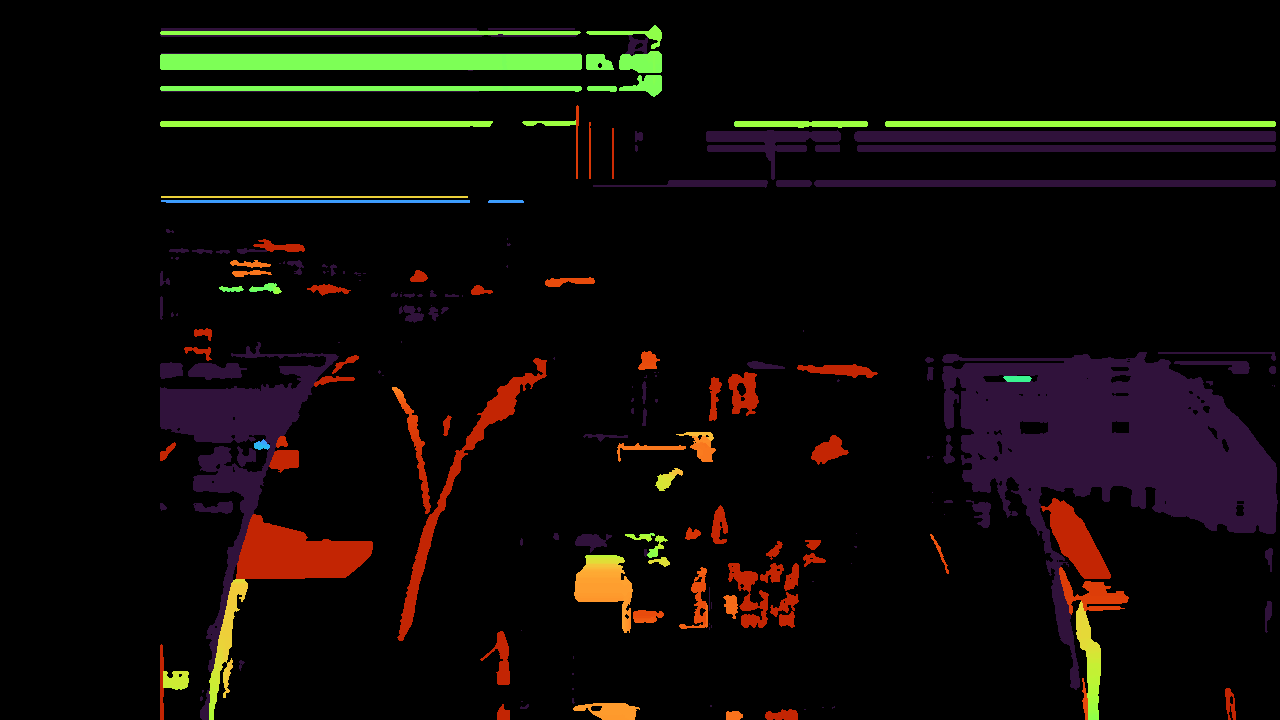
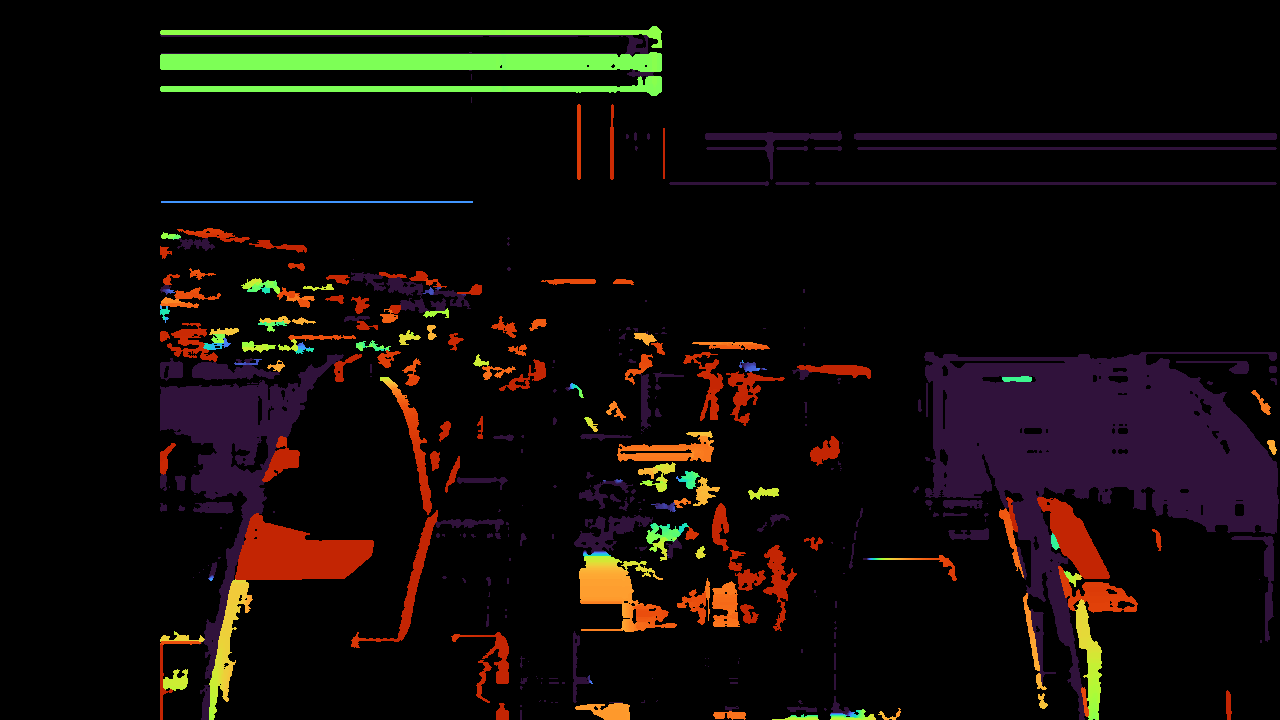
Persistent gritty regolith texture (world-anchored speckle + per-state micro-relief)
The ground rendered as a blurry interpolated slab (Apollo-14 surface ref shows
gritty, micro-shadowed regolith) — and gave passive stereo nothing to match.
Fix (terrain.gdshader + terrain_farfield.gdshader, both shaders):
- NEW fine ALBEDO speckle: world-anchored (field_uv->metres) high-frequency
  brightness grit at the granule scale, so the ground reads gritty AND both stereo
  cameras see identical texture at a world point (stereo-consistent, sun-angle
  stable). Single fine layer — macro structure stays the physics heightmap.
- Micro-shadow grain now PER-STATE (state_grain_factor) instead of disturbance-
  gated: VIRGIN full grit, TREAD turned WAY down (wheel compaction packs the fines
  smooth -> the rut reads polished, spec §6), EXCAVATED/SPOIL coarse, BERM smoother.
- depth_map.py SGBM retuned for low-contrast regolith (block 5, uniqueness 5):
  crater-interior coverage 10->24%, boulder field ->16%. Honest finding stands —
  passive stereo on uniform regolith is fundamentally sparse (the limiter is the
  narrow 0.1 m baseline + sky fraction + textureless rover self-view, not surface
  smoothness); the grit is decisively a LOOK win + gives what texture there is.

NOTE: this changes every lit terrain render, so the ARTIFACTS.md reference stills
(refreshed in 2c39a8e) are superseded again — deferring that re-refresh until the
look settles (active look iteration), per prior practice.

diff --git a/scripts/ros2_bridge/depth_map.py b/scripts/ros2_bridge/depth_map.py
@@ -35,13 +35,17 @@ def main() -> None:
         raise SystemExit("could not read front_left.png / front_right.png")
 
     # SGBM tuned for ~1-6 m at 0.1 m baseline, 1280-wide (disparity ~40 px @ 2.3 m, ~90 px @ 1 m).
+    # Tuned for low-contrast, low-texture lunar regolith: small block (fine grit is ~6 px at a
+    # few m, so big windows wash it out), permissive uniqueness (the speckle contrast is modest),
+    # generous speckle filter to drop isolated mismatches. Passive stereo on uniform regolith is
+    # inherently sparse; these recover what's recoverable without inventing matches.
     num_disp = 160  # multiple of 16
-    block = 7
+    block = 5
     sgbm = cv2.StereoSGBM_create(
         minDisparity=0, numDisparities=num_disp, blockSize=block,
         P1=8 * block * block, P2=32 * block * block,
-        disp12MaxDiff=1, uniquenessRatio=10, speckleWindowSize=100, speckleRange=2,
-        mode=cv2.STEREO_SGBM_MODE_SGBM_3WAY,
+        disp12MaxDiff=2, uniquenessRatio=5, speckleWindowSize=80, speckleRange=4,
+        preFilterCap=31, mode=cv2.STEREO_SGBM_MODE_SGBM_3WAY,
     )
     disp = sgbm.compute(left, right).astype(np.float32) / 16.0  # SGBM returns fixed-point ×16
 
